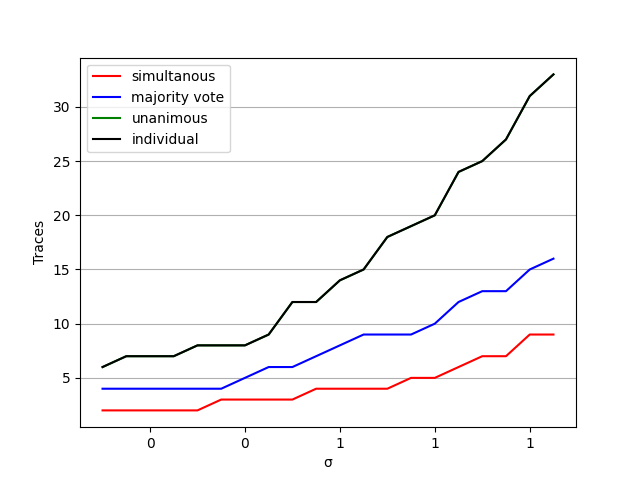
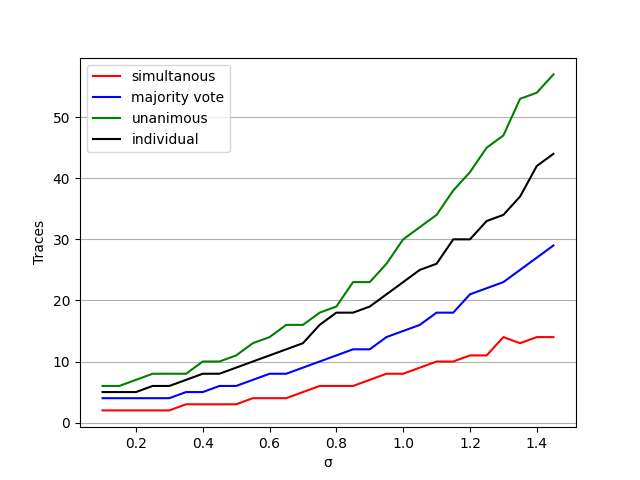
fix plotting section

diff --git a/plot_2.py b/plot_2.py
@@ -7,8 +7,10 @@ import math
 import sys
 from numpy import arange
 
-#std=[0.1,0.3,0.5,0.7]
-std=arange(0.1, 1.1, 0.05)
+#std=[0.15,0.2,0.25,0.3,0.35,0.4,0.45,0.5,0.55,0.6,0.65,0.7,0.75,0.8,0.85,0.9,0.95,1.0,1.05]
+std=arange(0.1, 1.5, 0.05)
+print(std)
+
 requires_traces_for_s_rate=[]
 for s in std:
     infile="requires_traces_"+str(s)+".npy"
@@ -17,15 +19,25 @@ for s in std:
 
 
 req_t =np.matrix(requires_traces_for_s_rate)
+print(req_t)
 
-simultanous=req_t[:,0]
-majority_vote=req_t[:,1]
-unanimous=req_t[:,2]
-individual=req_t[:,3]
+simultanous=req_t[:,0].A1
+majority_vote=req_t[:,1].A1
+unanimous=req_t[:,2].A1
+individual=req_t[:,3].A1
 outfile= "required_traces_pr_sigma"
-helpers.plot_required_traces(simultanous, majority_vote, 
-                 unanimous, individual,
-                 "simultanous","majority vote",
-                 "unanimous","individual",
-                outfile,std)
+
+print(simultanous)
+plt.figure()
+plt.ylabel('Traces')
+plt.xlabel('σ')
+plt.plot(std,np.array(simultanous), label="simultanous", c="red")
+plt.plot(std,np.array(majority_vote), label="majority vote", c="blue")
+plt.plot(std,np.array(unanimous), label="unanimous", c="green")
+plt.plot(std,np.array(individual), label="individual", c="black")
+plt.grid(axis='y')
+#plt.gca().xaxis.set_major_formatter(StrMethodFormatter('{x:,.0f}')) # No decimal places
+plt.legend()
+plt.draw()
+plt.savefig(outfile)
 
